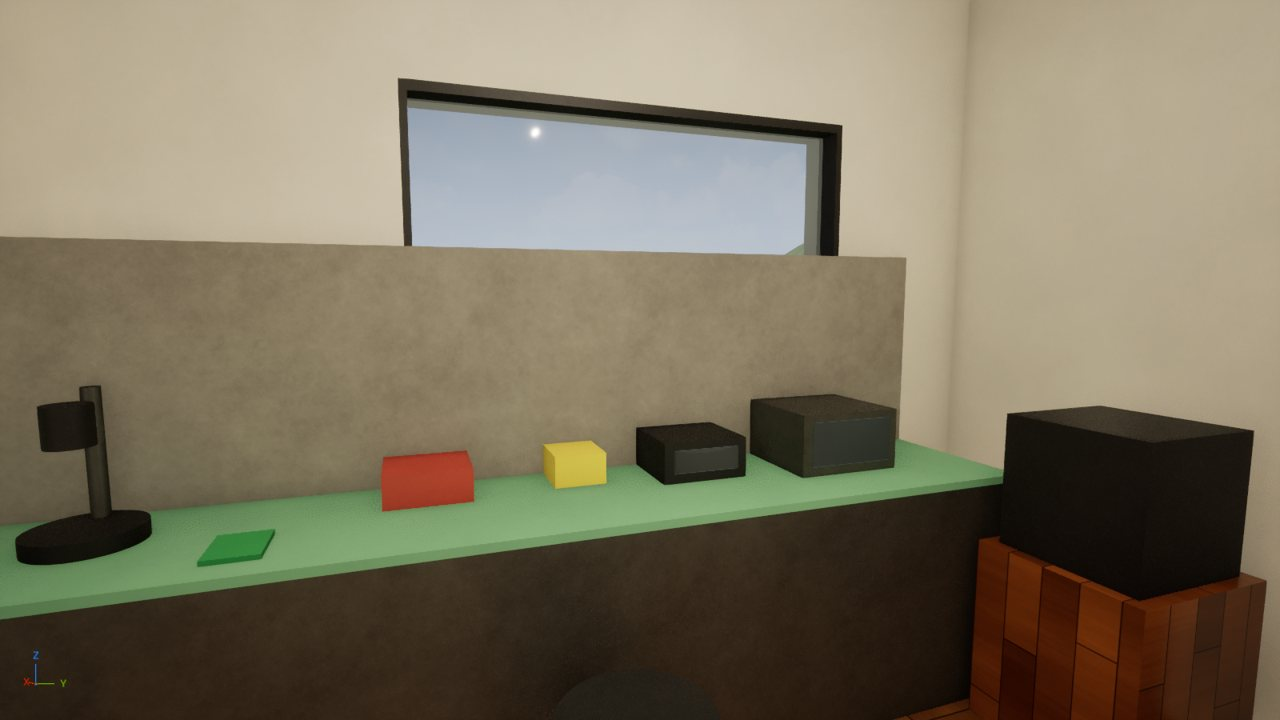
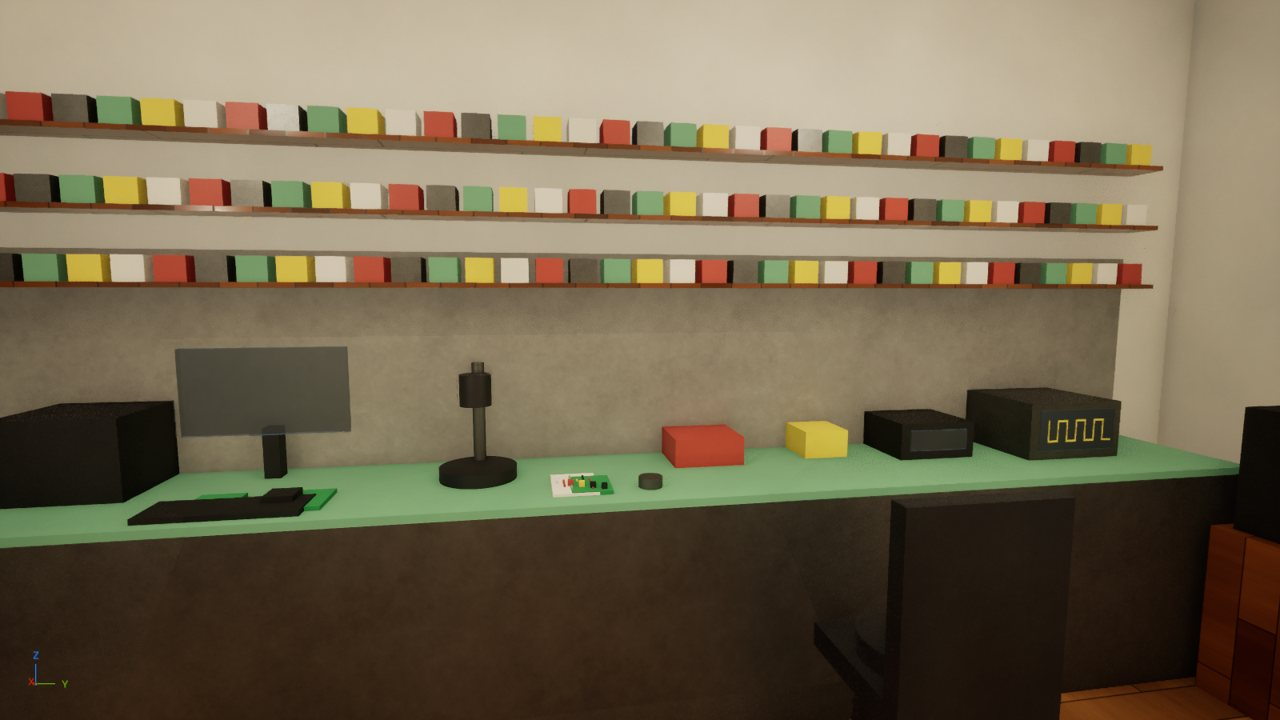
VR海边别墅/ue_courtyard: 电子工作室和工作间加细节
- 示波器方波、显示器代码行、面包板跳线、零件盒层架、办公椅、白板
- 工作间洞洞板工具、油漆罐层架
- NavMesh 仍 12/12

Claude-Session: https://claude.ai/code/session_019UACwSjkHaYmw7N1n6name

diff --git a/VR海边别墅/ue_courtyard/c2_build.py b/VR海边别墅/ue_courtyard/c2_build.py
@@ -570,6 +570,21 @@ def build_garage():
     cyl(28.3, 2.25, GR, GR + 1.6, 0.08, "metal", g, True)
     box(28.1, 28.5, 2.15, 2.6, GR + 1.3, GR + 1.6, "red", g, label="DrillPress")
     box(29.3, 30.6, 1.9, 2.5, GR, GR + 1.0, "red", g, label="ToolCabinet")
+    # 更多工具: 锤子、扳手、锯、螺丝刀 (洞洞板), 墙架上的油漆罐
+    for k in range(14):
+        y = 2.45 + k * 0.23
+        zc = 1.25 + (k % 3) * 0.32
+        m = ("red", "metal", "black", "yellow")[k % 4]
+        box(32.52, 32.6, y - 0.03, y + 0.03, zc, zc + 0.22 + (k % 2) * 0.1, m, g, False)
+        if k % 3 == 0:
+            box(32.52, 32.6, y - 0.07, y + 0.07, zc + 0.22, zc + 0.27, "metal", g, False)
+    box(27.7, 28.0, 2.2, 5.6, GR, GR + 2.0, "metal", g, label="Shelf")
+    for lv in range(4):
+        z = GR + 0.3 + lv * 0.5
+        box(27.6, 28.05, 2.2, 5.6, z, z + 0.03, "teak", g, False)
+        for k in range(5):
+            y = 2.5 + k * 0.62
+            cyl(27.82, y, z + 0.03, z + 0.25, 0.2, ("red", "white", "metal", "yellow", "esd")[(k + lv) % 5], g, True)
     plight(30.2, 4.2, CEIL - 0.3, 7.0)
 
 
@@ -578,7 +593,7 @@ def build_studio():
     g = "K_Studio"
     box(33.0, 37.5, 10.5, 18.0, -0.2, FL, "wood", g, label="StudioFloor")
     wall("y", 10.5, 18.0, 33.0, 33.25, 0, WT, "white", [(12.0, 13.0, FL, 2.3, "open")], g)
-    wall("y", 10.5, 18.0, 37.25, 37.5, 0, WT, "white", [(11.5, 13.5, 1.5, 2.6, "win")], g)
+    wall("y", 10.5, 18.0, 37.25, 37.5, 0, WT, "white", (), g)  # 东墙不开窗: 零件盒层架靠这面墙
     wall("x", 33.25, 37.25, 17.75, 18.0, 0, WT, "white", [(34.0, 36.8, 0.9, 2.6, "win")], g)
     wall("x", 33.25, 37.25, 10.5, 10.75, 0, WT, "white", (), g)
     roof(33.0, 37.5, 10.5, 18.0)
@@ -619,6 +634,53 @@ def build_studio():
             box(33.55 + c * 0.39, 33.55 + c * 0.39 + 0.33, 11.25, 11.27, FL + 0.08 + r * 0.19, FL + 0.08 + r * 0.19 + 0.14, "white", g, False)
     box(35.8, 36.4, 10.85, 11.45, FL, FL + 0.7, "teak", g)
     box(35.85, 36.35, 10.9, 11.4, FL + 0.7, FL + 1.2, "black", g, label="Printer3D")
+    # 示波器屏幕上的方波 (黄线), 显示器上的"代码行"
+    sx = 37.15 - 0.45 - 0.012
+    ys = [11.66 + i * 0.045 for i in range(8)]
+    for i in range(7):
+        zl = T + (0.08 if i % 2 == 0 else 0.17)
+        box(sx - 0.004, sx, ys[i], ys[i + 1], zl, zl + 0.008, "yellow", g, False)
+        box(sx - 0.004, sx, ys[i + 1] - 0.004, ys[i + 1], T + 0.08, T + 0.178, "yellow", g, False)
+    code = ["esd", "yellow", "white", "esd", "white", "red", "white", "esd", "yellow", "white"]
+    for x0 in (34.0, 35.0):
+        for r, cm in enumerate(code):
+            ind = 0.04 + (r % 3) * 0.05
+            ln = 0.18 + ((r * 7) % 5) * 0.06
+            z = FL + 1.28 - r * 0.033
+            box(x0 + ind, x0 + min(0.57, ind + ln), 17.494, 17.499, z, z + 0.012, cm, g, False)
+    # 工作台上: 第三台显示器 + 键盘, 面包板 + 跳线, 焊锡卷, 台灯
+    box(36.95, 36.98, 14.9, 15.5, T + 0.18, T + 0.52, "screen", g, label="BenchMonitor")
+    box(36.98, 37.05, 15.17, 15.23, T, T + 0.2, "black", g, False)
+    box(36.5, 36.68, 14.95, 15.45, T, T + 0.02, "black", g, False, label="Keyboard")
+    box(36.55, 36.8, 13.95, 14.12, T, T + 0.012, "white", g, False, label="Breadboard")
+    for i, cm in enumerate(("red", "black", "yellow", "esd", "red", "white")):
+        y = 13.97 + i * 0.025
+        box(36.58 + (i % 3) * 0.05, 36.7 + (i % 2) * 0.05, y, y + 0.006, T + 0.012, T + 0.02, cm, g, False)
+    for k, (y, cm) in enumerate(((13.92, "black"), (13.96, "black"), (14.0, "yellow"), (14.04, "red"))):
+        box(36.57 + k * 0.02, 36.59 + k * 0.02, y, y + 0.02, T + 0.015, T + 0.035, cm, g, False)
+    cyl(36.62, 13.75, T, T + 0.04, 0.09, "metal", g, True)
+    cyl(37.05, 16.9, T, T + 0.6, 0.03, "black", g, True)
+    box(36.8, 37.05, 16.8, 17.0, T + 0.56, T + 0.62, "white", g, False, label="BenchLamp")
+    # 工作台上方: 零件盒层架 (三层, 彩色小盒)
+    for lv in range(3):
+        z = T + 0.75 + lv * 0.28
+        box(36.95, 37.12, 11.2, 17.2, z, z + 0.02, "teak", g, False)
+        y = 11.25
+        k = 0
+        while y < 17.1:
+            cm = ("red", "white", "yellow", "esd", "metal")[(k + lv) % 5]
+            box(36.97, 37.11, y, y + 0.11, z + 0.02, z + 0.12, cm, g, False)
+            y += 0.14
+            k += 1
+    # 办公椅 + 西墙白板
+    cyl(36.0, 13.0, FL, FL + 0.06, 0.6, "black", g, True)
+    cyl(36.0, 13.0, FL + 0.06, FL + 0.45, 0.06, "metal", g, True)
+    box(35.75, 36.25, 12.75, 13.25, FL + 0.45, FL + 0.53, "black", g, label="OfficeChair")
+    box(35.75, 35.82, 12.75, 13.25, FL + 0.53, FL + 1.1, "black", g)
+    box(33.25, 33.28, 14.0, 16.6, 1.0, 2.1, "white", g, label="Whiteboard")
+    box(33.25, 33.3, 13.97, 16.63, 0.97, 1.0, "black", g, False)
+    for i in range(4):
+        box(33.28, 33.285, 14.3, 14.9 + i * 0.3, 1.8 - i * 0.18, 1.81 - i * 0.18, "black", g, False)
     plight(35.0, 12.5, CEIL - 0.3, 8.0)
     plight(35.0, 15.8, CEIL - 0.3, 8.0)
 

diff --git a/VR海边别墅/ue_courtyard/README.md b/VR海边别墅/ue_courtyard/README.md
@@ -23,9 +23,9 @@
 | ④⑤ 私院 | 主卧私院（柚木平台、泡池、九重葛墙、躺椅）、次卧私院（碎石、小树、吊床） |
 | ⑥⑦⑧ G | 入口长巷（2.6 m 毛石墙、汀步、墙脚水渠、陶罐）、门院（无花果、石水钵、东门）、柠檬巷（3 盆柠檬、户外淋浴）、访客停车 |
 | H 车库 | 两辆车（体块）、卷帘门洞、灯 |
-| I 工作间 | 3 m 工作台 + 台钳、洞洞板工具墙、台钻、红色工具柜、后门通门院 |
+| I 工作间 | 3 m 工作台 + 台钳、洞洞板工具墙（20 多件）、台钻、红色工具柜、油漆罐层架、后门通门院 |
 | J 地下室 | −3 m，三排钢货架 + 纸箱、酒架、除湿机、4 盏灯 |
-| K 电子工作室 | 东墙 6 m 防静电台（示波器、电源、万用表、烙铁台、显微镜、排烟器、逻辑分析仪、开发板、舵机），北窗下写代码桌 + 双显示器，元件抽屉柜，3D 打印机 |
+| K 电子工作室 | 东墙 6 m 防静电台（示波器屏幕上有方波、电源、万用表、烙铁台、显微镜、排烟器、逻辑分析仪、第三台显示器 + 键盘、面包板 + 跳线、开发板、舵机、台灯），台面上方三层零件盒，办公椅，西墙白板，北窗下写代码桌 + 双显示器（屏上有"代码行"），元件抽屉柜，3D 打印机 |
 | 配景 | 草地、道路、岩石海岸、海面、两个海岬 + 灯塔、远岛、南边山丘、几栋邻居房子 |
 
 ## 脚本（UE 底部控制台 `py "C:/Users/12192/Documents/UE-MCP-Tools/court/<文件>"`）
